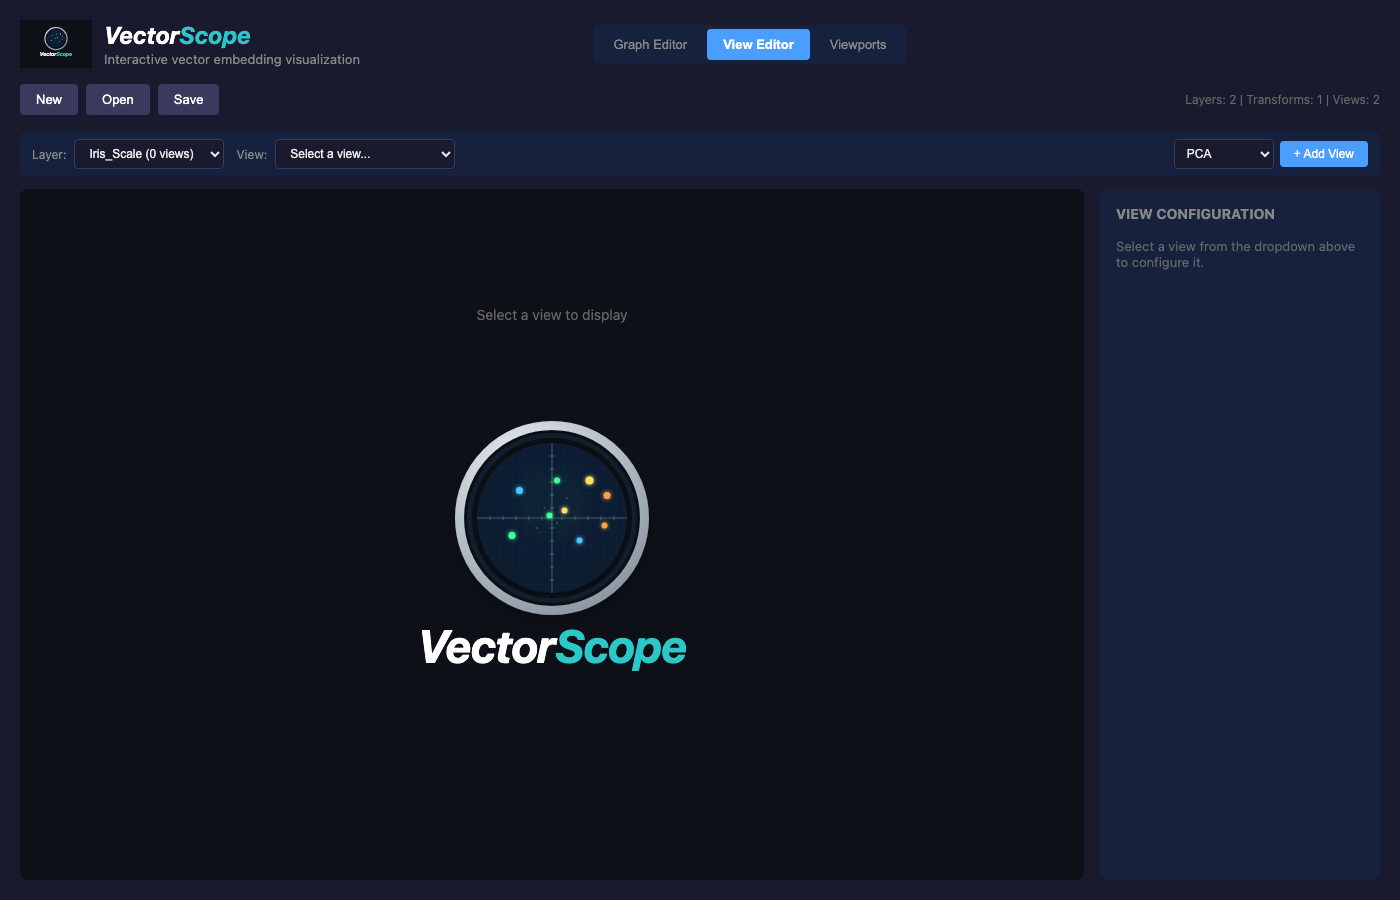
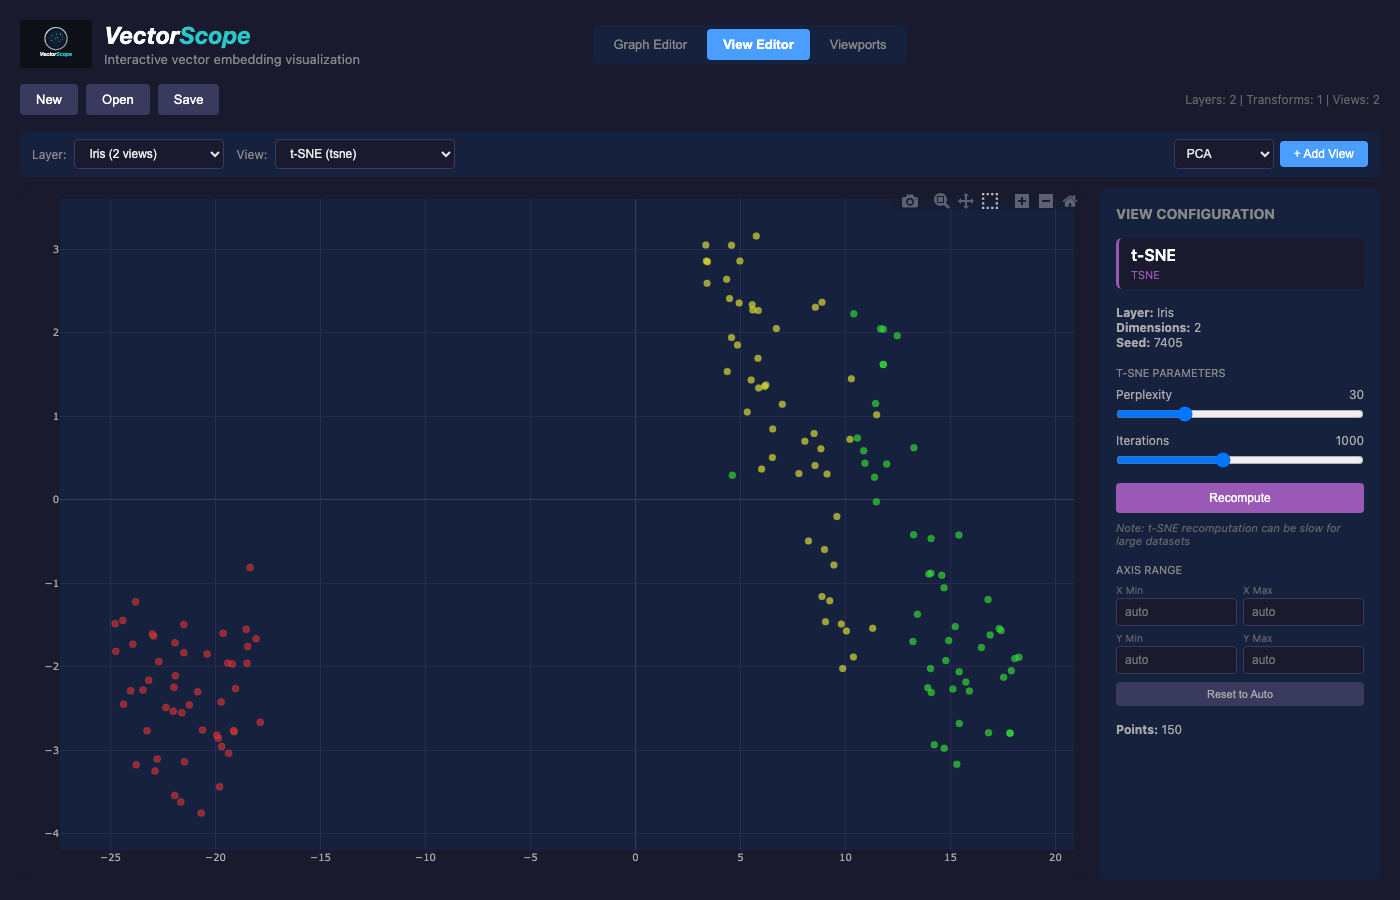
Fix screenshots: view_editor shows plot, histogram/boxplot in Viewports mode
- Fix view_editor.png to actually select a view and show the scatter plot
- Fix histogram_view.png to show in Viewports mode (not View Editor)
- Fix boxplot_view.png to show in Viewports mode (not View Editor)
- Add helper function to select views by partial name match

🤖 Generated with [Claude Code](https://claude.com/claude-code)

diff --git a/scripts/capture_screenshots.py b/scripts/capture_screenshots.py
@@ -9,6 +9,20 @@ SCREENSHOTS_DIR = Path(__file__).parent.parent / "docs" / "_static" / "images"
 BASE_URL = "http://localhost:5173"
 
 
+async def select_view_in_dropdown(page, view_name_contains):
+    """Helper to select a view from the view dropdown by partial name match."""
+    selects = await page.query_selector_all("select")
+    for select in selects:
+        options = await select.query_selector_all("option")
+        for i, opt in enumerate(options):
+            text = await opt.text_content()
+            if view_name_contains.lower() in text.lower():
+                await select.select_option(index=i)
+                await page.wait_for_timeout(2000)
+                return True
+    return False
+
+
 async def capture_screenshots():
     """Capture screenshots of key UI states."""
     SCREENSHOTS_DIR.mkdir(parents=True, exist_ok=True)
@@ -52,13 +66,10 @@ async def capture_screenshots():
 
         # Add a t-SNE view by clicking the "+" button and selecting t-SNE from modal
         try:
-            # Click the "+" button with title="Add view" to open the modal
             await page.click("button[title='Add view']", timeout=5000)
             await page.wait_for_timeout(500)
-
-            # Click on "t-SNE" in the modal
             await page.click("text=t-SNE >> nth=0", timeout=5000)
-            await page.wait_for_timeout(3000)  # t-SNE takes longer to compute
+            await page.wait_for_timeout(3000)
 
             # Screenshot 3: Graph with t-SNE view added
             await page.screenshot(path=SCREENSHOTS_DIR / "graph_with_view.png")
@@ -68,15 +79,10 @@ async def capture_screenshots():
 
         # Add a transformation
         try:
-            # Click on Iris layer again
             await page.click("text=Iris >> nth=0", timeout=3000)
             await page.wait_for_timeout(500)
-
-            # Click the "+" button for transformation
             await page.click("button[title='Add transformation']", timeout=5000)
             await page.wait_for_timeout(500)
-
-            # Click on "Scaling" in the modal
             await page.click("text=Scaling", timeout=5000)
             await page.wait_for_timeout(2000)
 
@@ -86,18 +92,22 @@ async def capture_screenshots():
         except Exception as e:
             print(f"Note: Could not add transformation: {e}")
 
-        # Switch to View Editor and select a view
+        # Switch to View Editor and select the t-SNE view to show scatter plot
         try:
             await page.click("text=View Editor")
             await page.wait_for_timeout(1000)
 
-            # Find the view selector dropdown and select first view
-            selects = await page.query_selector_all("select")
-            for select in selects:
-                options = await select.query_selector_all("option")
-                if len(options) > 1:
-                    first_opt = await options[0].text_content()
-                    if "view" in first_opt.lower() or "select" in first_opt.lower():
+            # Select a view that shows data (the t-SNE view we just created)
+            # Try to find the view dropdown and select the first actual view
+            found = await select_view_in_dropdown(page, "tsne")
+            if not found:
+                found = await select_view_in_dropdown(page, "pca")
+            if not found:
+                # Try selecting index 1 from first dropdown that has options
+                selects = await page.query_selector_all("select")
+                for select in selects:
+                    options = await select.query_selector_all("option")
+                    if len(options) > 1:
                         await select.select_option(index=1)
                         await page.wait_for_timeout(2000)
                         break
@@ -108,12 +118,12 @@ async def capture_screenshots():
         except Exception as e:
             print(f"Note: Could not switch to view editor: {e}")
 
-        # Switch to Viewports
+        # Switch to Viewports and show t-SNE view
         try:
             await page.click("text=Viewports")
             await page.wait_for_timeout(1000)
 
-            # Add viewport
+            # Add viewport and select a projection
             await page.click("text=Add Viewport")
             await page.wait_for_timeout(500)
 
@@ -133,77 +143,55 @@ async def capture_screenshots():
         except Exception as e:
             print(f"Note: Could not set up viewports: {e}")
 
-        # Go back to Graph Editor and add Histogram view
+        # Add Histogram view and show it in Viewports mode
         try:
             await page.click("text=Graph Editor")
             await page.wait_for_timeout(1000)
 
-            # Click on Iris layer
             await page.click("text=Iris >> nth=0", timeout=3000)
             await page.wait_for_timeout(500)
 
-            # Click the "+" button to add view
             await page.click("button[title='Add view']", timeout=5000)
             await page.wait_for_timeout(500)
-
-            # Click on "Histogram" in the modal
             await page.click("text=Histogram", timeout=5000)
             await page.wait_for_timeout(2000)
 
-            # Switch to View Editor and select the histogram view
-            await page.click("text=View Editor")
+            # Switch to Viewports and select histogram view
+            await page.click("text=Viewports")
             await page.wait_for_timeout(1000)
 
-            # Find and select the histogram view
-            selects = await page.query_selector_all("select")
-            for select in selects:
-                options = await select.query_selector_all("option")
-                for i, opt in enumerate(options):
-                    text = await opt.text_content()
-                    if "histogram" in text.lower():
-                        await select.select_option(index=i)
-                        await page.wait_for_timeout(2000)
-                        break
+            # Find and select the histogram view in a viewport
+            found = await select_view_in_dropdown(page, "histogram")
+            await page.wait_for_timeout(2000)
 
-            # Screenshot 7: Histogram view
+            # Screenshot 7: Histogram view in Viewports mode
             await page.screenshot(path=SCREENSHOTS_DIR / "histogram_view.png")
             print("Captured: histogram_view.png")
         except Exception as e:
             print(f"Note: Could not capture histogram view: {e}")
 
-        # Add Box Plot view
+        # Add Box Plot view and show it in Viewports mode
         try:
             await page.click("text=Graph Editor")
             await page.wait_for_timeout(1000)
 
-            # Click on Iris layer
             await page.click("text=Iris >> nth=0", timeout=3000)
             await page.wait_for_timeout(500)
 
-            # Click the "+" button to add view
             await page.click("button[title='Add view']", timeout=5000)
             await page.wait_for_timeout(500)
-
-            # Click on "Box Plot" in the modal
             await page.click("text=Box Plot", timeout=5000)
             await page.wait_for_timeout(2000)
 
-            # Switch to View Editor and select the box plot view
-            await page.click("text=View Editor")
+            # Switch to Viewports and select box plot view
+            await page.click("text=Viewports")
             await page.wait_for_timeout(1000)
 
-            # Find and select the box plot view
-            selects = await page.query_selector_all("select")
-            for select in selects:
-                options = await select.query_selector_all("option")
-                for i, opt in enumerate(options):
-                    text = await opt.text_content()
-                    if "box" in text.lower():
-                        await select.select_option(index=i)
-                        await page.wait_for_timeout(2000)
-                        break
+            # Find and select the box plot view in a viewport
+            found = await select_view_in_dropdown(page, "box")
+            await page.wait_for_timeout(2000)
 
-            # Screenshot 8: Box Plot view
+            # Screenshot 8: Box Plot view in Viewports mode
             await page.screenshot(path=SCREENSHOTS_DIR / "boxplot_view.png")
             print("Captured: boxplot_view.png")
         except Exception as e:
